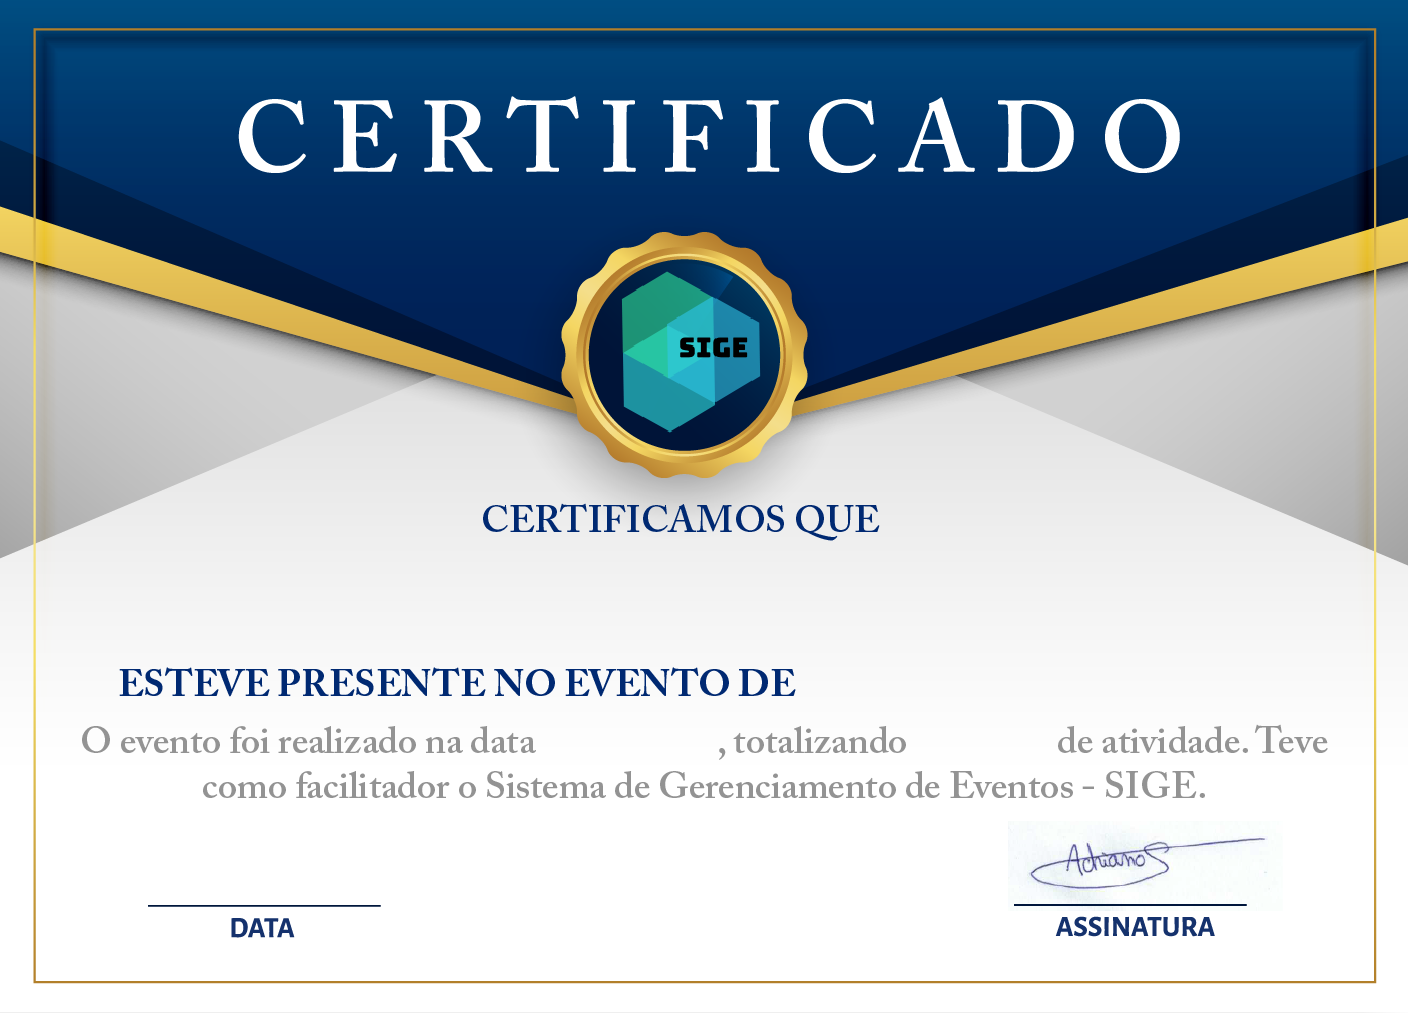
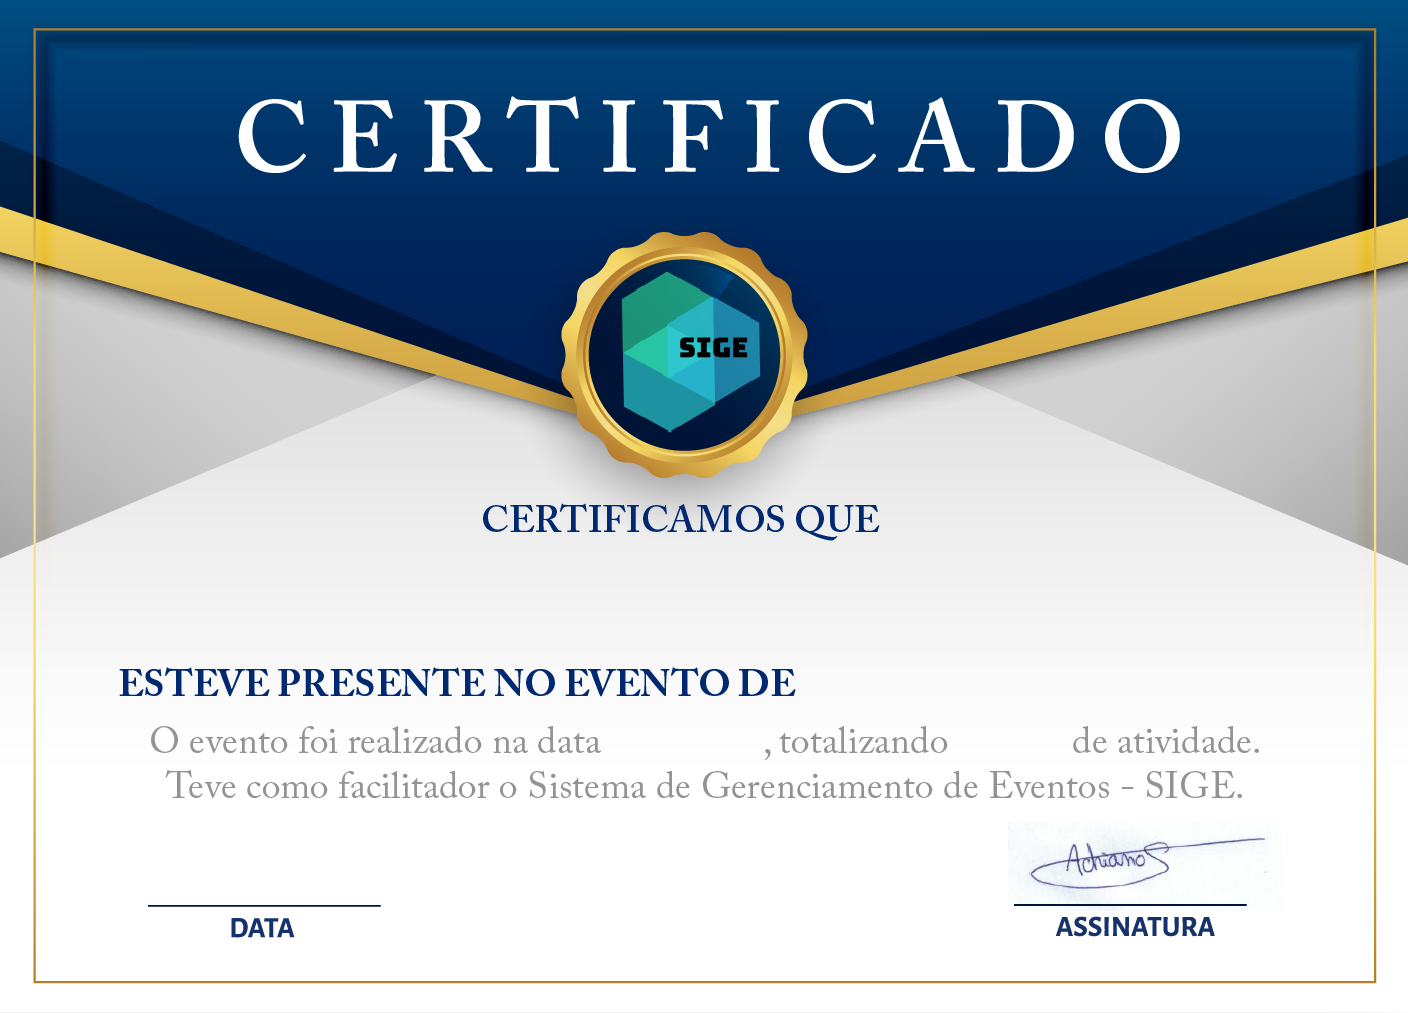
Estilizado a pagina de emitir o certificado e o do certificado

Changed region(s): [[0.0625, 0.7038, 0.9375, 0.7957]]

diff --git a/SIGE/WebContent/css/certificado.css b/SIGE/WebContent/css/certificado.css
@@ -1,0 +1,82 @@
+
+
+
+
+.ui-panelgrid .ui-panelgrid-cell {
+    border-style: none;
+    padding: 8px 10px;
+}
+
+.ui-widget-content {
+    border: 0px solid #a8a8a8;
+}
+
+.ui-panelgrid {
+    border-collapse: none;
+}
+
+.ui-widget {
+    font-family: "Nunito";
+}
+
+/* Input */
+
+.ui-state-default, .ui-widget-content .ui-state-default, .ui-widget-header .ui-state-default {
+    border: 1px solid #a8a8a8;
+}
+
+.ui-widget input, .ui-widget select, .ui-widget textarea, .ui-widget button {
+    font-family: "Nunito";
+}
+
+.ui-inputfield {
+    padding-left: 10px;
+}
+
+/* BOT�O ENTRE */
+
+.ui-widget-content .ui-state-default.botao-entrar {
+    border: 0px solid #a8a8a8;
+    color: white;
+    background: green;
+    text-shadow: 0 0px 0 rgba(255, 255, 255, 0.7);
+    margin-top: 5px;
+}
+
+.ui-widget-content .ui-state-default.botao-cadastrar {
+    border: 0px solid #a8a8a8;
+    color: white;
+    background: red;
+    text-shadow: 0 0px 0 rgba(255, 255, 255, 0.7);
+    margin-top: 5px;
+}
+
+/* Marcar Presença */
+
+.ui-selectcheckboxmenu-header {
+    margin-bottom: .3em;
+    padding: 20px 0 9px 5px;
+}
+
+.ui-helper-clearfix:before, .ui-helper-clearfix:after {
+    content: "";
+    display: table;
+    margin-bottom: -14px;
+    border-collapse: collapse;
+}
+
+.ui-selectcheckboxmenu-multiple-container {
+    clear: left;
+    cursor: pointer;
+    list-style-type: none;
+    margin: 0;
+    min-height: 32px;
+    overflow: hidden;
+    min-width: 173px;
+}
+
+
+
+.ui-button-text-only .ui-button-text:hover {
+    background: #006577;
+}

diff --git a/SIGE/WebContent/css/estiloMarcarPresenca.css b/SIGE/WebContent/css/estiloMarcarPresenca.css
@@ -360,7 +360,7 @@ li.sair.adm a::before {
 }
 
 #texto {
-    padding: 25px 0 20px 50px;
+    padding: 50px 0 20px 50px;
     max-width: 960px;
     margin: 0 auto;
     border-bottom: 3px solid rgb(88, 82, 177);

diff --git a/SIGE/WebContent/css/estilo.css b/SIGE/WebContent/css/estilo.css
@@ -952,3 +952,4 @@ body#login-adm {
     border-collapse: collapse;
 }
 
+
